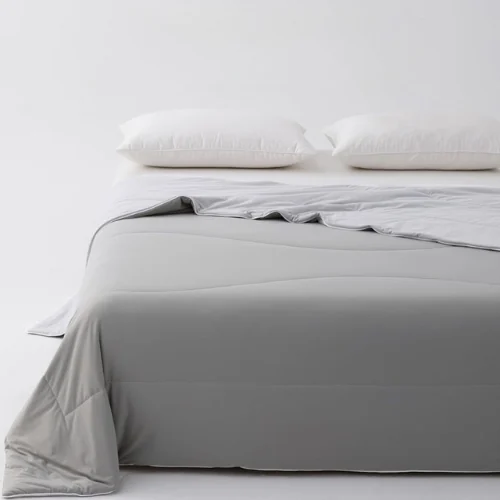
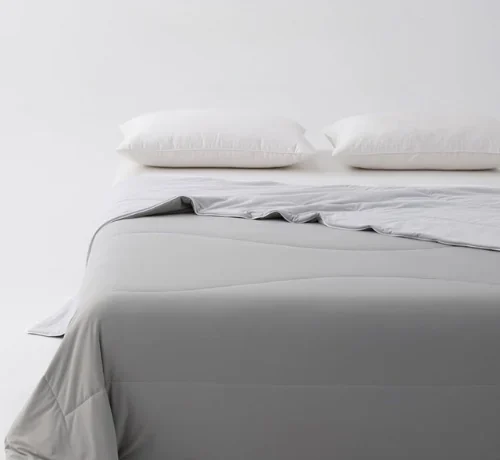
Add files via upload

Changed region(s): [[0.0, 0.5783, 1.0, 1.0], [0.15, 0.2739, 1.0, 0.5478], [0.06, 0.6391, 0.09, 0.6696]]

diff --git a/src/components/Blocks.jsx b/src/components/Blocks.jsx
@@ -49,7 +49,7 @@ export function PillowDeck({ count = 2, height = 220, radius = 0, bg = '#D5EBFA'
     P({ width: '46%', left: '50%', top: '52%', transform: 'rotate(6deg)', zIndex: 4 }, 'd'),
   ];
   return (
-    <div style={{ position: 'relative', background: bg, borderRadius: radius, overflow: 'hidden', height }}>
+    <div style={{ position: 'relative', width: '100%', background: bg, borderRadius: radius, overflow: 'hidden', height }}>
       <img src={IMG.cloudWhite} alt="" aria-hidden="true" style={{ position: 'absolute', left: '-5%', top: '9%', width: '40%', opacity: 1, filter: 'drop-shadow(0 6px 10px rgba(32,27,93,.14))' }} />
       <img src={IMG.cloudWhite} alt="" aria-hidden="true" style={{ position: 'absolute', right: '-5%', bottom: '6%', width: '46%', opacity: 1, filter: 'drop-shadow(0 6px 10px rgba(32,27,93,.14))' }} />
       {count >= 4 ? four : two}
@@ -117,7 +117,7 @@ export function SummerDealsSlider() {
                   <span style={badge}>{b.short.toLowerCase()}</span>
                 </div>
                 <div style={panel}>
-                  <div style={{ fontFamily: FONT_DISPLAY, fontSize: 16, marginBottom: 4 }}>{PRODUCT.name}</div>
+                  <div style={{ fontFamily: FONT_DISPLAY, fontSize: 16, marginBottom: 4 }}>{b.pillows} × {PRODUCT.name}</div>
                   <div style={{ fontSize: 12, color: '#DDD9FF', lineHeight: 1.5, marginBottom: 8 }}>{PRODUCT.tagline}</div>
                   <div style={{ fontFamily: FONT_DISPLAY, fontSize: 15, color: '#fff', marginBottom: 10 }}>{formatPrice(p, symbol)} <s style={{ fontFamily: 'Poppins,sans-serif', fontWeight: 400, fontSize: 11.5, color: '#BDB7EE' }}>{formatPrice(cm, symbol)}</s></div>
                   <span style={chip}>Now {b.label.match(/\(([^)]+)\)/)?.[1] || b.short} for only {formatPrice(p, symbol)}</span>
@@ -186,11 +186,13 @@ export function ShippingCountdown() {
 // echte reviewaantallen zodra die er zijn.
 export function TrustBar() {
   const isMobile = useIsMobile();
-  const items = ['🌙 100-night sleep trial', '🚚 Free shipping, always', '✓ OEKO-TEX & CertiPUR-US certified', '🛡 2-year warranty'];
+  const items = [['🌙', '100-night sleep trial'], ['🚚', 'Free shipping, always'], ['✅', 'OEKO-TEX & CertiPUR-US certified'], ['🛡', '2-year warranty']];
   return (
-    <div className="fns-scroll" style={{ background: '#fff', borderBottom: '1px solid rgba(32,27,93,.10)', display: 'flex', gap: isMobile ? 18 : 34, justifyContent: isMobile ? 'flex-start' : 'center', overflowX: 'auto', padding: '9px 16px', whiteSpace: 'nowrap' }}>
-      {items.map((t, i) => (
-        <span key={i} style={{ fontSize: 11.5, fontWeight: 600, color: c.navy, fontFamily: FONT_SUB, flexShrink: 0 }}>{t}</span>
+    <div className="fns-scroll" style={{ background: '#fff', borderBottom: '1px solid rgba(32,27,93,.10)', display: 'flex', alignItems: 'center', gap: isMobile ? 18 : 34, justifyContent: isMobile ? 'flex-start' : 'center', overflowX: 'auto', padding: '9px 16px', whiteSpace: 'nowrap' }}>
+      {items.map(([icon, label], i) => (
+        <span key={i} style={{ display: 'inline-flex', alignItems: 'center', gap: 6, fontSize: 11.5, fontWeight: 600, color: c.navy, fontFamily: FONT_SUB, flexShrink: 0, lineHeight: 1 }}>
+          <span style={{ fontSize: 13, lineHeight: 1 }}>{icon}</span>{label}
+        </span>
       ))}
     </div>
   );

diff --git a/src/components/PillowQuiz.jsx b/src/components/PillowQuiz.jsx
@@ -11,7 +11,7 @@ import { c, BTN, useIsMobile, FONT_DISPLAY, FONT_SUB, EYEBROW } from '../theme';
 const QUESTIONS = [
   { key: 'pos', q: 'How do you sleep most of the night?', opts: [['🛌', 'On my side', 'side'], ['🙂', 'On my back', 'back'], ['😴', 'On my stomach', 'stomach']] },
   { key: 'firm', q: 'How do you like a pillow to feel?', opts: [['☁', 'Soft and low', 'soft'], ['⚖', 'Right in between', 'medium'], ['🧱', 'Firm and high', 'firm']] },
-  { key: 'shoulder', q: 'How broad are your shoulders?', opts: [['🙆', 'On the narrow side', 'narrow'], ['🧍', 'About average', 'average'], ['💪', 'Broad', 'broad']] },
+  { key: 'weight', q: 'Roughly how much do you weigh? This just helps us size the filling.', opts: [['🪶', 'Under 130 lb · 60 kg', 'under130'], ['🚶', '130–170 lb · 60–77 kg', 'w130'], ['🧍', '170–210 lb · 77–95 kg', 'w170'], ['💪', '210–250 lb · 95–113 kg', 'w210'], ['🏋', 'Over 250 lb · 113 kg+', 'over250']] },
   { key: 'current', q: 'Your current pillow usually feels…', opts: [['⬆', 'Too high or too full', 'high'], ['👌', 'About right', 'right'], ['⬇', 'Too flat', 'flat']] },
 ];
 
@@ -24,10 +24,10 @@ function recommend(a) {
     stomach: { soft: [10, 12], medium: [9, 11], firm: [8, 10] },
   };
   let [lo, hi] = table[a.pos][a.firm];
-  const shoulder = { narrow: 1, average: 0, broad: -1 }[a.shoulder] || 0;
+  const weight = { under130: 2, w130: 1, w170: 0, w210: -1, over250: -2 }[a.weight] || 0;
   const cur = { high: 1, right: 0, flat: -1 }[a.current] || 0;
-  lo = Math.max(0, lo + shoulder + cur);
-  hi = Math.max(lo, hi + shoulder + cur);
+  lo = Math.max(0, lo + weight + cur);
+  hi = Math.max(lo, hi + weight + cur);
   const posText = a.pos === 'side'
     ? 'As a side sleeper you need the most height to keep your neck level with your spine, so keep plenty of filling in.'
     : a.pos === 'stomach'
@@ -50,7 +50,7 @@ export default function PillowQuiz() {
 
   return (
     <section style={{ background: '#fff', padding: isMobile ? '44px 20px' : '64px 40px' }}>
-      <div style={{ maxWidth: 620, margin: '0 auto', background: `linear-gradient(180deg, ${c.sky} 0%, ${c.sky2} 100%)`, borderRadius: 24, padding: isMobile ? '26px 20px 30px' : '38px 40px 42px', textAlign: 'center', minHeight: isMobile ? 420 : 400 }}>
+      <div style={{ maxWidth: 620, margin: '0 auto', background: `linear-gradient(180deg, ${c.sky} 0%, ${c.sky2} 100%)`, borderRadius: 24, padding: isMobile ? '26px 20px 30px' : '38px 40px 42px', textAlign: 'center', minHeight: isMobile ? 520 : 470 }}>
         <div style={EYEBROW}>Free filling finder</div>
         <h2 style={{ fontFamily: FONT_DISPLAY, fontSize: isMobile ? 24 : 32, color: c.navy, margin: '8px 0 8px' }}>Get your filling just right 🪶</h2>
         <p style={{ fontSize: 13.5, lineHeight: 1.6, color: c.grayD, maxWidth: 450, margin: '0 auto 20px' }}>

diff --git a/src/components/Reveal.jsx b/src/components/Reveal.jsx
@@ -6,7 +6,7 @@ import { useRef, useState, useEffect } from 'react';
 // - Respecteert prefers-reduced-motion (dan geen animatie).
 // - Server-side gerenderde HTML blijft volledig zichtbaar (SEO/no-JS);
 //   de animatie activeert pas in de browser.
-export default function Reveal({ children, delay = 0, y = 16, once = false, style = {} }) {
+export default function Reveal({ children, delay = 0, y = 20, once = false, style = {} }) {
   const ref = useRef(null);
   const [state, setState] = useState('ssr'); // ssr | hidden | shown
 
@@ -34,7 +34,7 @@ export default function Reveal({ children, delay = 0, y = 16, once = false, styl
       ...style,
       opacity: hidden ? 0 : 1,
       transform: hidden ? `translateY(${y}px)` : 'translateY(0)',
-      transition: `opacity .45s ease ${delay}ms, transform .45s ease ${delay}ms`,
+      transition: `opacity .6s cubic-bezier(.22,.61,.36,1) ${delay}ms, transform .6s cubic-bezier(.22,.61,.36,1) ${delay}ms`,
       willChange: 'opacity, transform',
     }}>
       {children}

diff --git a/src/data.js b/src/data.js
@@ -136,7 +136,6 @@ export const products = [
     useCases: ["Warm bedrooms", "Over your duvet", "Evening wind-down", "Guest room", "Movie nights"],
     images: [
       "/images/weighted-hero.webp",
-      "/images/weighted-3.webp",
       "/images/weighted-1.webp",
       "/images/weighted-2.webp",
       "/images/weighted-4.webp",
